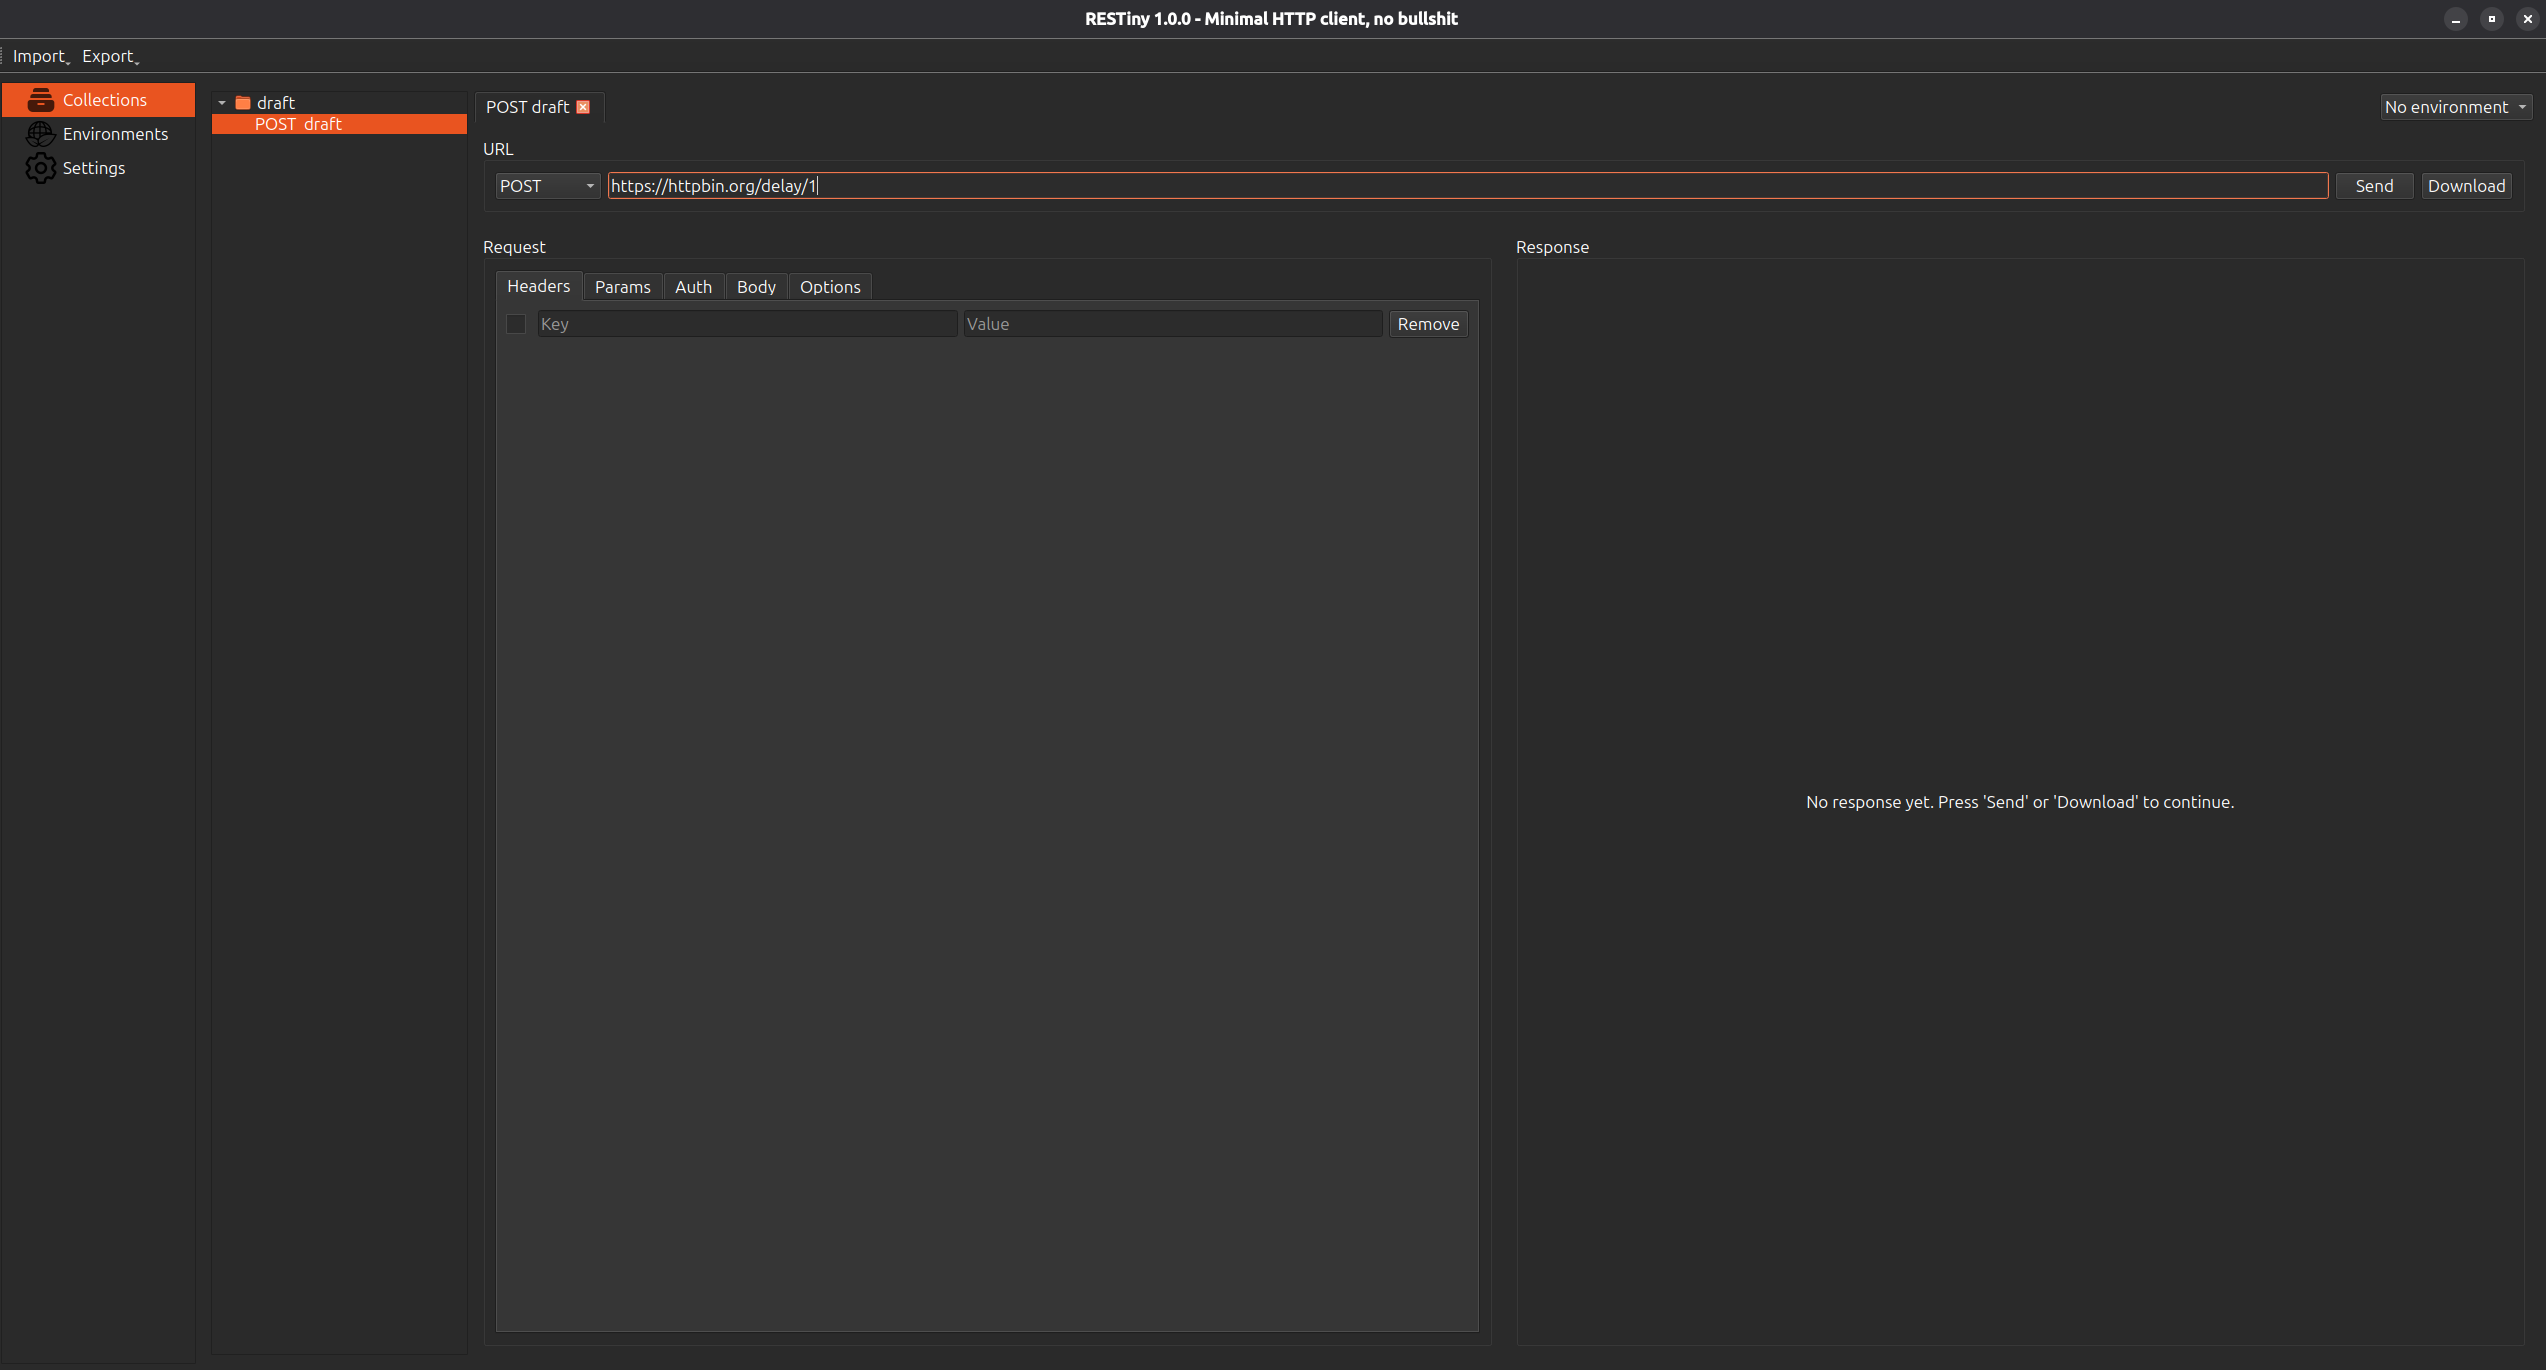
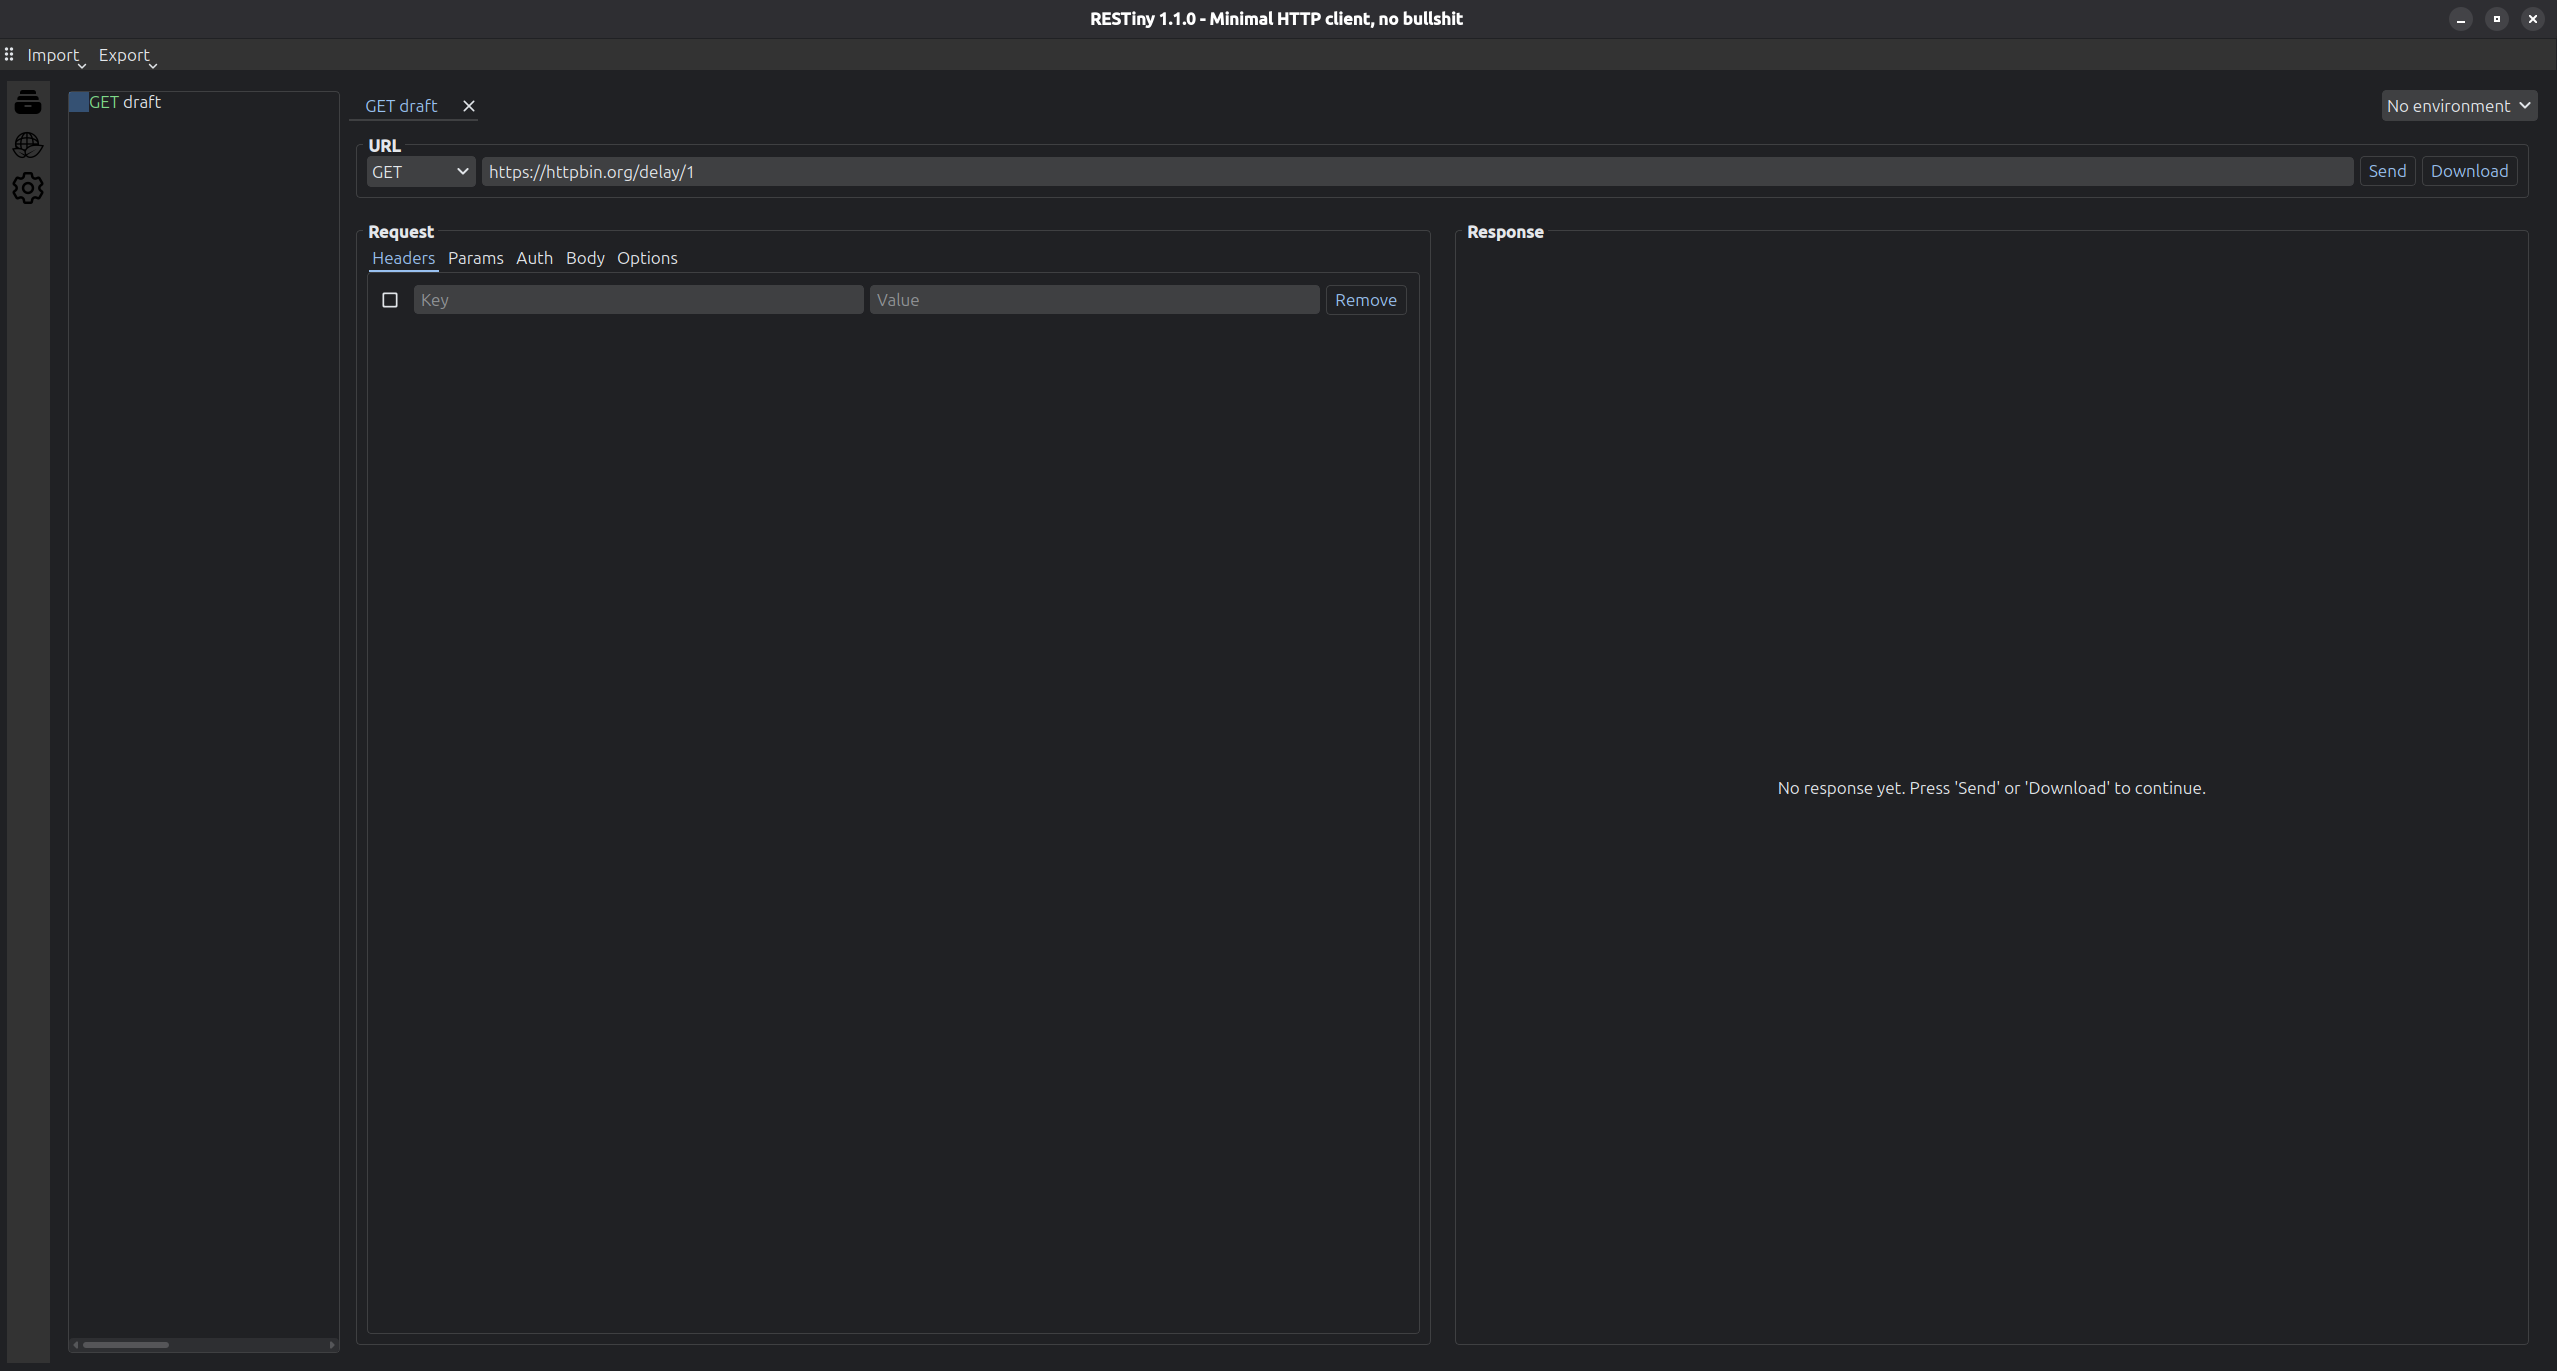
feat: Improves sidebar

diff --git a/restiny/ui/app.py b/restiny/ui/app.py
@@ -15,7 +15,7 @@ from pydantic import (
     field_validator,
     model_validator,
 )
-from PySide6.QtCore import QSize, QTimer
+from PySide6.QtCore import QSize, Qt, QTimer
 from PySide6.QtGui import QAction, QIcon
 from PySide6.QtWidgets import (
     QApplication,
@@ -29,8 +29,6 @@ from PySide6.QtWidgets import (
     QStackedWidget,
     QToolBar,
     QToolButton,
-    QTreeWidget,
-    QTreeWidgetItem,
     QWidget,
 )
 
@@ -381,20 +379,23 @@ class MainWindow(QMainWindow):
         toolbar.addWidget(export_button)
         self.addToolBar(toolbar)
 
-        # TODO: USar toolbar tmbm mas na esquerda
-        self.sidebar = QTreeWidget()
-        self.sidebar.setHeaderHidden(True)
-        self.sidebar.setIconSize(QSize(32, 32))
-        collections_item = QTreeWidgetItem(['Collections'])
-        collections_item.setIcon(0, QIcon(str(COLLECTIONS_ICON)))
-        environments_item = QTreeWidgetItem(['Environments'])
-        environments_item.setIcon(0, QIcon(str(ENVIRONMENTS_ICON)))
-        settings_item = QTreeWidgetItem(['Settings'])
-        settings_item.setIcon(0, QIcon(str(SETTINGS_ICON)))
-        self.sidebar.addTopLevelItems(
-            [collections_item, environments_item, settings_item]
+        sidebar = QToolBar('Sidebar')
+        sidebar.setIconSize(QSize(32, 32))
+        sidebar.setMovable(False)
+        collections_action = QAction(
+            QIcon(str(COLLECTIONS_ICON)), 'Collections', self
         )
-        self.sidebar.setCurrentItem(collections_item)
+        environments_action = QAction(
+            QIcon(str(ENVIRONMENTS_ICON)), 'Environments', self
+        )
+        settings_action = QAction(QIcon(str(SETTINGS_ICON)), 'Settings', self)
+        collections_action.triggered.connect(self._on_collections_clicked)
+        environments_action.triggered.connect(self._on_environments_clicked)
+        settings_action.triggered.connect(self._on_settings_clicked)
+        sidebar.addAction(collections_action)
+        sidebar.addAction(environments_action)
+        sidebar.addAction(settings_action)
+        self.addToolBar(Qt.LeftToolBarArea, sidebar)
 
         self.collections_screen = CollectionsScreen(
             main_window=self,
@@ -416,11 +417,10 @@ class MainWindow(QMainWindow):
 
         container = QWidget()
         layout = QHBoxLayout(container)
-        layout.addWidget(self.sidebar, 1)
+        layout.addWidget(sidebar, 1)
         layout.addWidget(self.stack, 12)
         self.setCentralWidget(container)
 
-        self.sidebar.currentItemChanged.connect(self._on_item_changed)
         self.environments_screen.sig_environment_added.connect(
             self.collections_screen.top_bar_area._populate_environments
         )
@@ -432,11 +432,14 @@ class MainWindow(QMainWindow):
         )
         QTimer.singleShot(3000, self._check_new_release)
 
-    def _on_item_changed(self, current, previous):
-        if not current:
-            return
-        index = self.sidebar.indexOfTopLevelItem(current)
-        self.stack.setCurrentIndex(index)
+    def _on_collections_clicked(self) -> None:
+        self.stack.setCurrentIndex(0)
+
+    def _on_environments_clicked(self) -> None:
+        self.stack.setCurrentIndex(1)
+
+    def _on_settings_clicked(self) -> None:
+        self.stack.setCurrentIndex(2)
 
     def _check_new_release(self) -> None:
         try:
